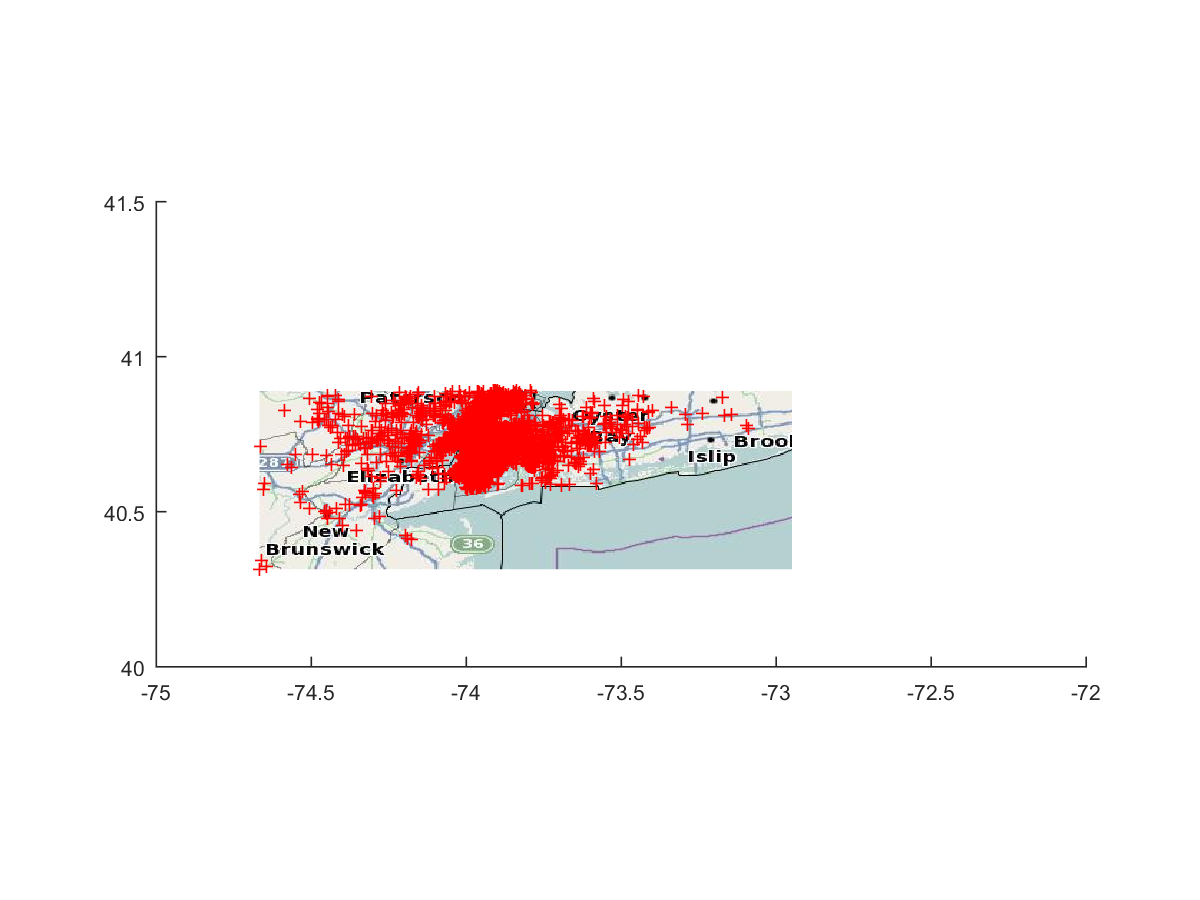
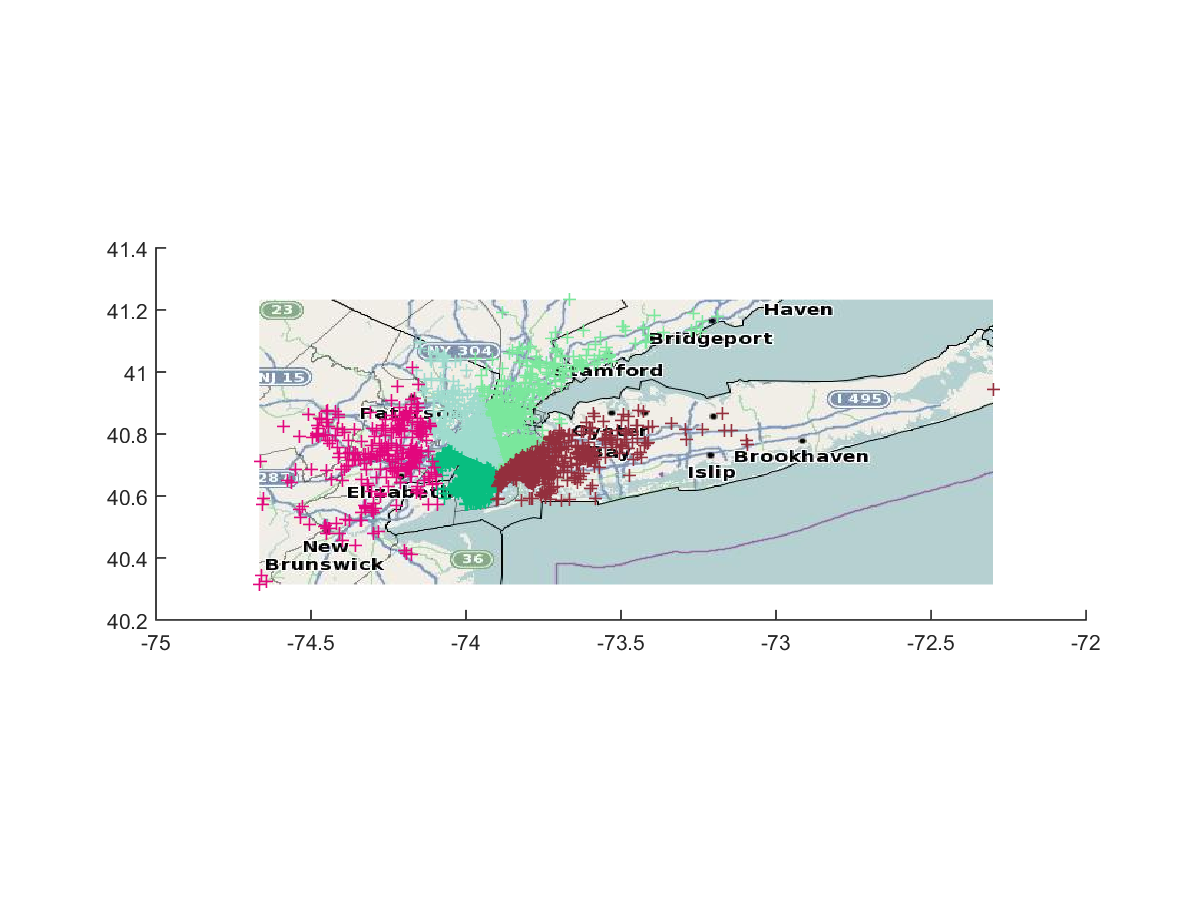
The old code was not exposing some variables.
My change forces the old code to expose some variables so I can map the changes. I expose the variable closest mean to separate the data.

diff --git a/Proj/map_uber_data.m b/Proj/map_uber_data.m
@@ -1,8 +1,9 @@
 %run external script run.m
 run
 varname = @(x) inputname(1);
-uber_data_list = {uber4,uber5,uber6,uber7,uber8,uber9};
-uber_number = 4:9;
+uber_data_list = {uber5,uber7,uber8,uber9};
+closest_mean_list = {closestMean1,closestMean2,closestMean3,closestMean4};
+uber_number = [5,7,8,9];
 
 
 OSM_url = 'http://geoint.nrlssc.navy.mil/osm/wms/OSM/basemap/Mapnik/OSM_BASEMAP?';
@@ -29,9 +30,11 @@ for i=1:length(uber_data_list)
     %usamap(map_limits.lat, map_limits.lon);      % limit to New York area
     [A,R] = wmsread(layer,'Latlim',map_limits.lat, 'Lonlim', map_limits.lon);
     geoshow(A,R);
-    hold on;
-    geoshow(lat,lon, 'DisplayType', 'point');
-    %wmsread
-    
+    for j=unique( closest_mean_list{i}')
+        cl_mean = closest_mean_list{i};
+        hold on;
+        geoshow(lat(j==cl_mean),lon(j==cl_mean), 'DisplayType', 'point','MarkerEdgeColor', rand(1,3));
+        %wmsread
+    end
     saveas(fig, strcat('map_uber', num2str(uber_number(i)),'.png'));
 end

diff --git a/Proj/run.m b/Proj/run.m
@@ -8,13 +8,13 @@ result= zeros(4,k);
 sample = data(randperm(n, k)',:);
 
 
-uber1_result=countArea(uber5,sample,k,1);
+[uber1_result, closestMean1,meanLocs1, nIters1 ]=countArea(uber5,sample,k,1);
 result(1,:)=uber1_result;
-uber2_result=countArea(uber7,sample,k,2);
+[uber2_result, closestMean2,meanLocs2, nIters2 ]=countArea(uber7,sample,k,2);
 result(2,:)=uber2_result;
-uber3_result=countArea(uber8,sample,k,3);
+[uber3_result, closestMean3,meanLocs3, nIters3 ]=countArea(uber8,sample,k,3);
 result(3,:)=uber3_result;
-uber4_result=countArea(uber9,sample,k,4);
+[uber4_result,closestMean4, meanLocs4, nIters4 ]=countArea(uber9,sample,k,4);
 result(4,:)=uber4_result;
 
 reignItIn(result,k);

diff --git a/Proj/countArea.m b/Proj/countArea.m
@@ -1,5 +1,5 @@
 %load uber-data-final
-function [output,meanLocs,nIters] = countArea(uberData,sample,p,subplotNum)
+function [output,closestMean,meanLocs,nIters] = countArea(uberData,sample,p,subplotNum)
 k=p;
 data=table2array(uberData);
 maxIters=9999;
